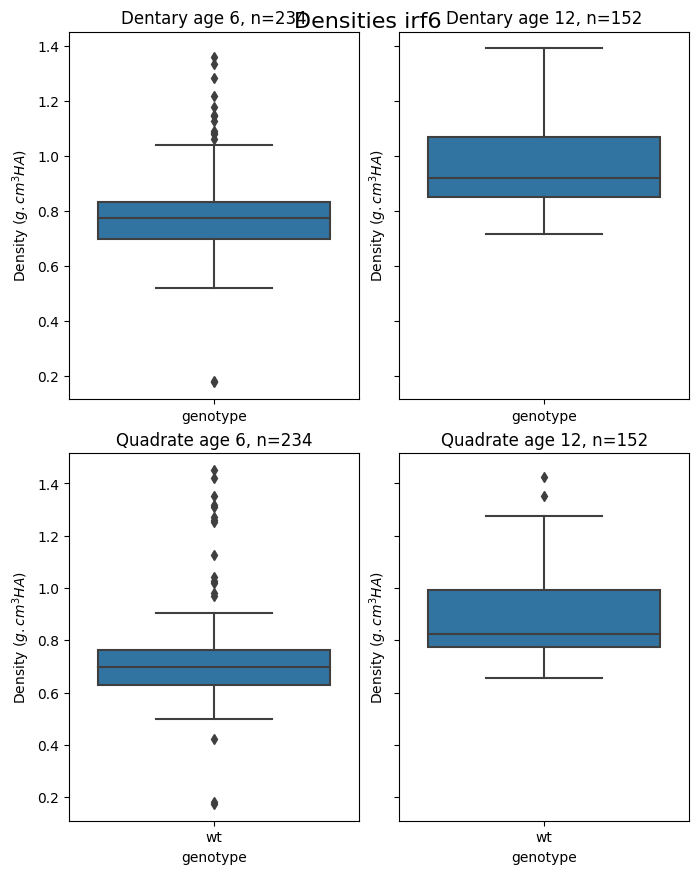
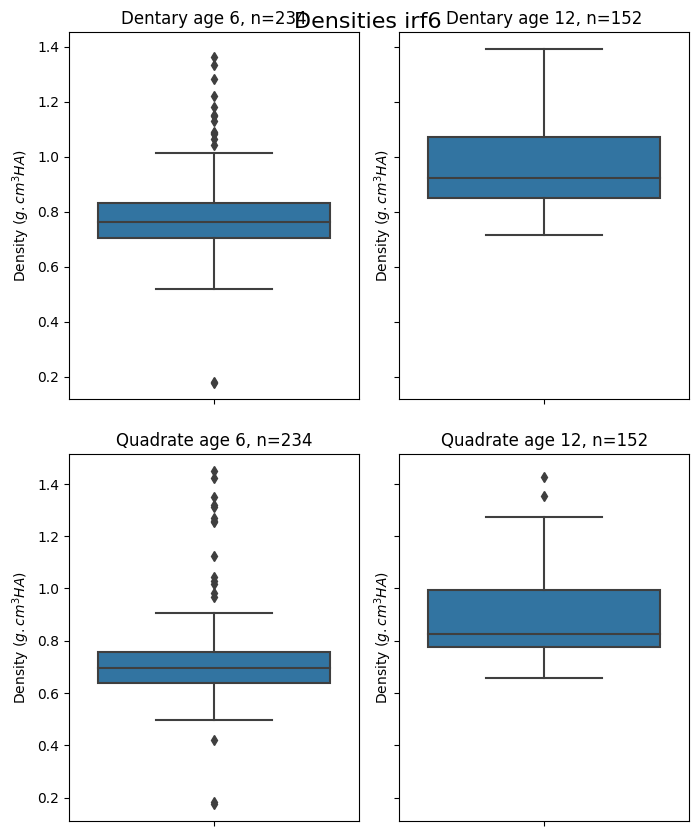
jaw figsa

diff --git a/scripts/jaw/figs/plot_2x4.py b/scripts/jaw/figs/plot_2x4.py
@@ -12,9 +12,9 @@ import seaborn as sns
 
 
 if __name__ == '__main__':
-	# dataset_path = '/home/wahab/Data/HDD/uCT/'
+	dataset_path = '/home/wahab/Data/HDD/uCT/'
 	# dataset_path = '/home/ak18001/Data/HDD/uCT/'
-	dataset_path = '/mnt/scratch/ak18001/uCT/'
+	# dataset_path = '/mnt/scratch/ak18001/uCT/'
 
 	ctreader = ctfishpy.CTreader(dataset_path)
 	master = ctreader.master
@@ -31,7 +31,7 @@ if __name__ == '__main__':
 	'wnt16', 'ncoa3', 'gdf5', 'mcf2l', 'scxa', 'sp7', 'col11 ',
 	'chsy1', 'atg', 'ctsk', 'spp1']
 	genes_to_analyse = ['wt','irf6']
-	age_bins = [0,6,12] # for age in months
+	age_bins = [6,12] # for age in months
 
 	import pdb; pdb.set_trace()
 
@@ -41,6 +41,7 @@ if __name__ == '__main__':
 	# ages = [ctreader.trim(master, 'age', [b]) for b in bins]
 	print(master)
 	print(master.strain.to_list())
+	print(master.genotype.to_list())
 
 	# clean strain naming
 	for n in master.index:
@@ -89,11 +90,12 @@ if __name__ == '__main__':
 			print(b,bin_)
 
 			final_df = df.loc[df['age'] == bin_]
+			# dropna?
 			sub_plot_title = f"{b} age {bin_}, n={len(final_df)}"
 			axs[i,j].title.set_text(sub_plot_title)
 			if len(df)>0:
 				# sns.violinplot(data=dens_df, x="genotype", y="Density ($g.cm^{3}HA$)", ax=axs[i,j], inner='stick',)
-				sns.boxplot(data=final_df, x="genotype", y="Density ($g.cm^{3}HA$)", ax=axs[i,j])
+				sns.boxplot(data=final_df, y="Density ($g.cm^{3}HA$)", hue="genotype", ax=axs[i,j])
 			else: print("\nSKIPPED\n")
 
 
@@ -116,6 +118,7 @@ if __name__ == '__main__':
 			print(df)
 
 			final_df = df.loc[df['age'] == bin_]
+			final_df.reset_index()
 			sub_plot_title = f"{b} age {bin_}, n={len(final_df)}"
 			axs[i,j].title.set_text(sub_plot_title)
 			if len(df)>0:
